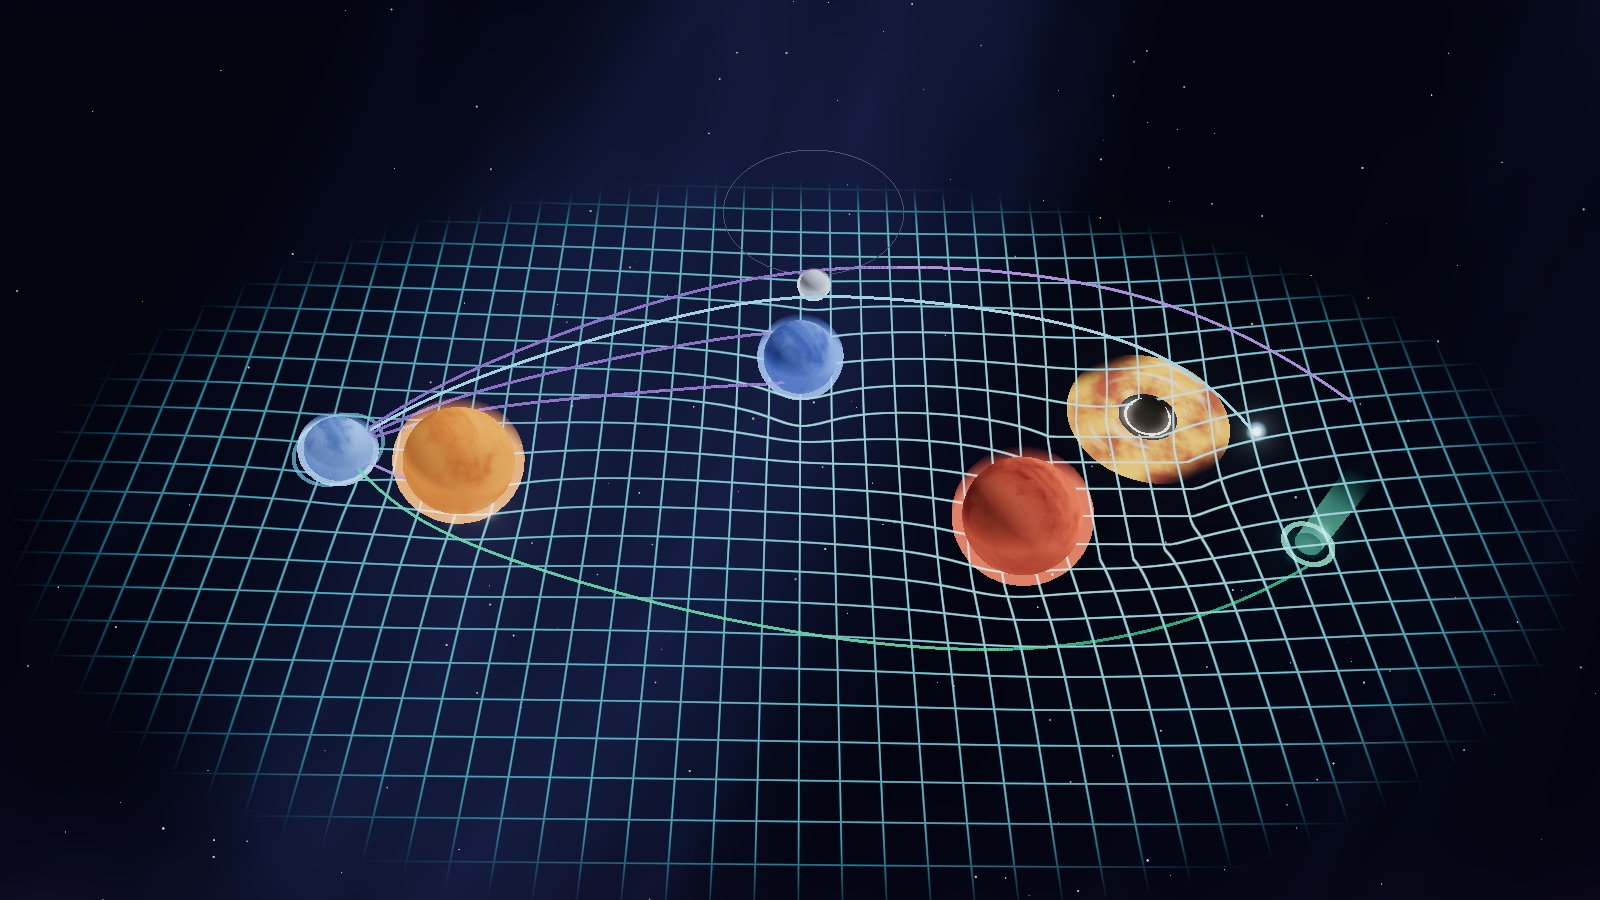
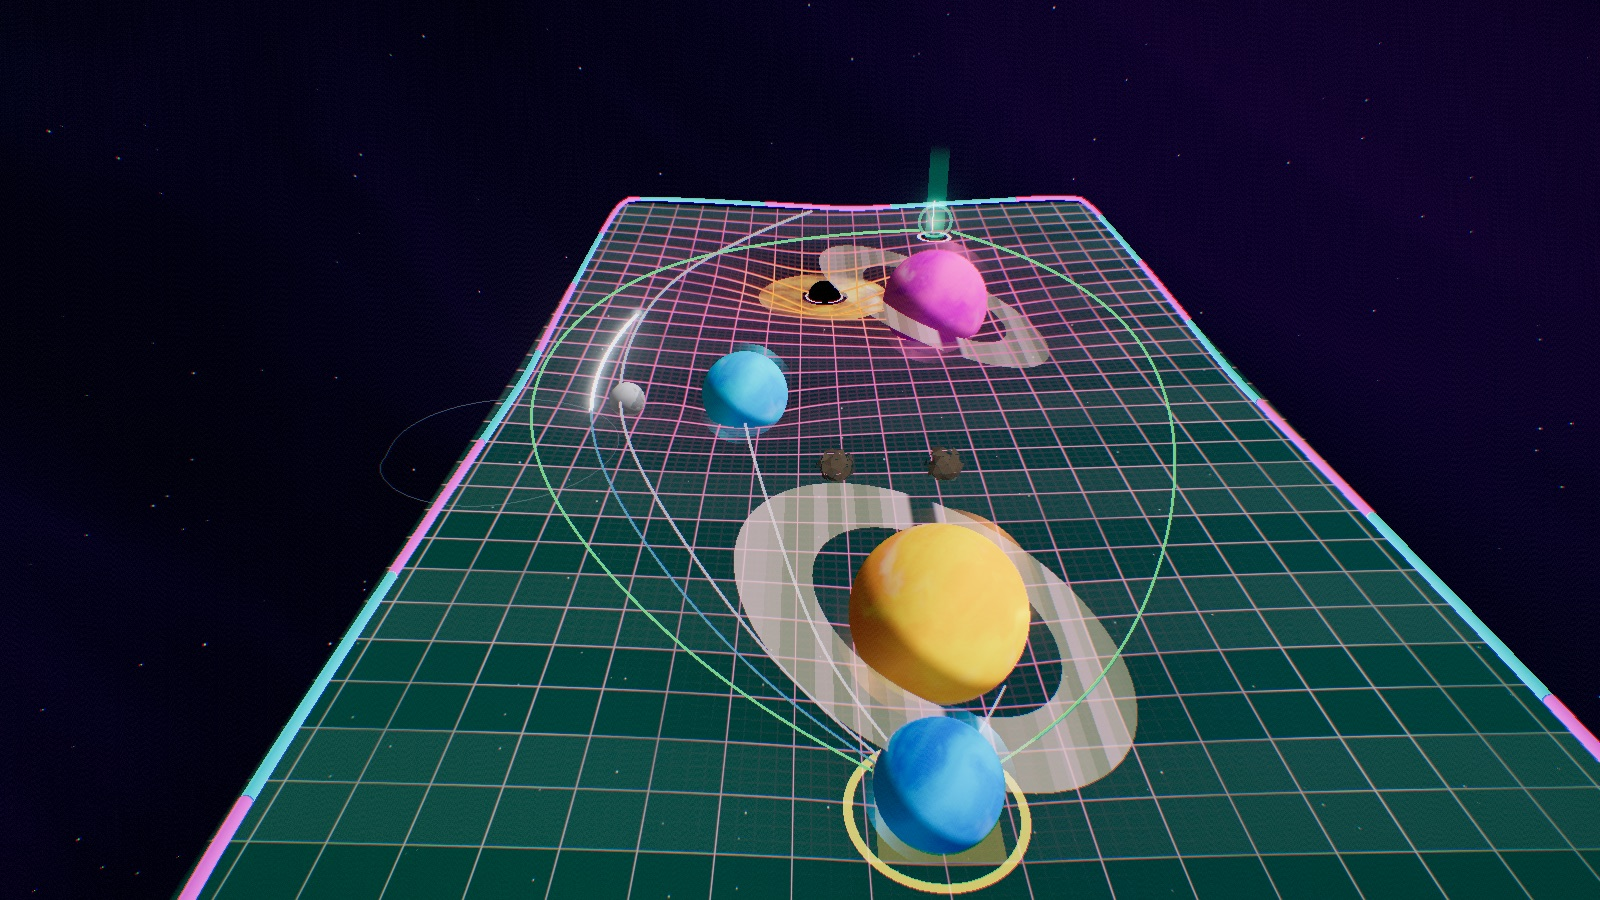
Refresh Orbit Golf for its 18-hole update
The game now has 18 holes, drag-to-aim controls, and a mini-golf camera,
so the old thumbnail and introduction no longer describe it. Replace the
screenshot in place and rewrite the summary to match.

diff --git a/REQUIREMENTS.md b/REQUIREMENTS.md
@@ -32,6 +32,7 @@ Functional and security constraints for **ronpicard.com**. Update this file when
 - The Periodic Table Element Visualizer project MUST use a current local screenshot of its elemental interface for its blog thumbnail and Open Graph image.
 - The Fish Tank Simulator project MUST use a current local aquarium screenshot for its blog thumbnail and Open Graph image, include a short introduction and playable demo and source code links, and appear ahead of Pool Rooms among the September 12, 2026 additions.
 - The Orbit Golf project MUST include a local gameplay thumbnail, a short introduction, and playable demo and source code links; it MUST appear first as the September 19, 2026 addition.
+- The Orbit Golf project MUST use a current local gameplay screenshot for its blog thumbnail and Open Graph image.
 - Article metadata MUST pass the shared runtime schema before the app or build scripts consume it.
 - Article HTML MUST be extracted to per-article files under `public/article-bodies/`; the homepage catalog MUST load metadata only.
 - Public blog slugs MUST be derived from post titles (not legacy storage slugs); legacy slugs from the pre–Mar 2026 naming scheme MUST still resolve for bookmarks and prerendered paths.

diff --git a/CHANGELOG.md b/CHANGELOG.md
@@ -8,6 +8,7 @@ The format is based on [Keep a Changelog](https://keepachangelog.com/en/1.1.0/).
 
 ### Changed
 
+- Orbit Golf's blog thumbnail, social link preview, and introduction reflect its 18-hole update with the new putt-putt view, captured September 19, 2026.
 - Pool Rooms' blog thumbnail and social link preview use a fresh gameplay screenshot of the updated Sun Pavilion, captured September 13, 2026.
 - Periodic Table Element Visualizer's blog thumbnail and social link preview use a fresh screenshot of the updated elemental interface, captured September 13, 2026.
 - Fish Tank Simulator's blog thumbnail and social link preview use a fresh screenshot of the updated aquarium, captured September 13, 2026.
